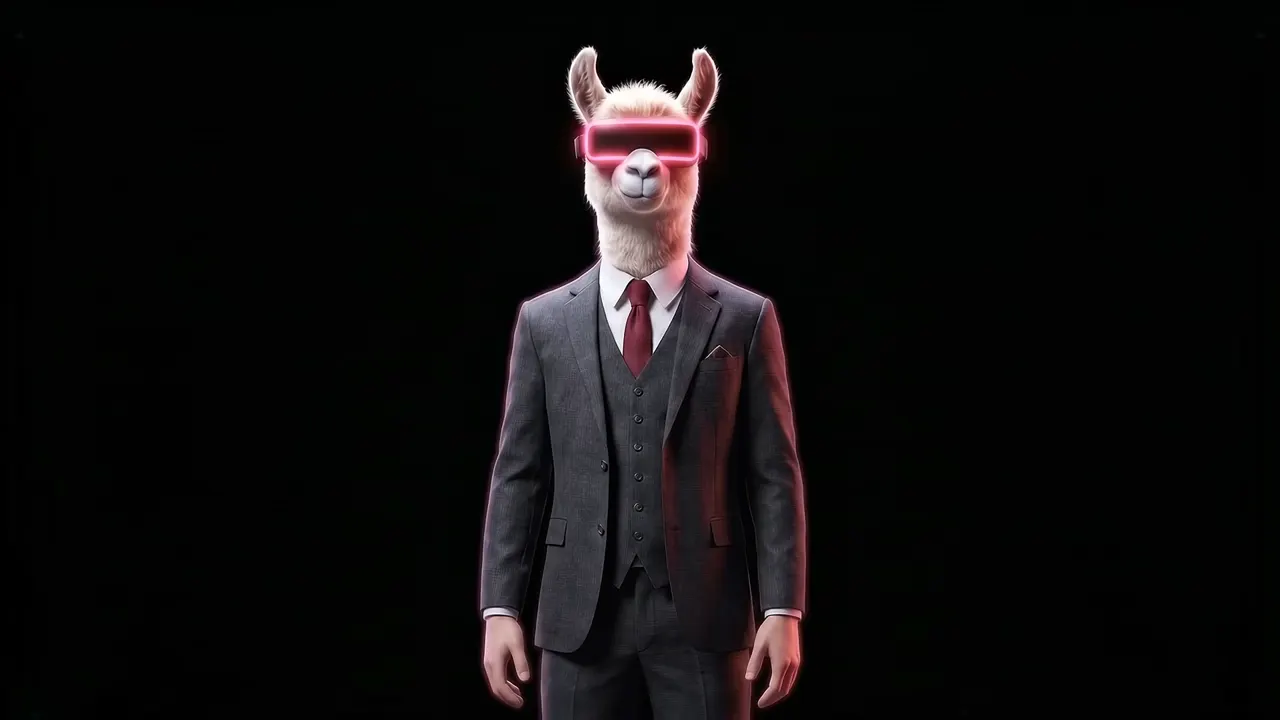
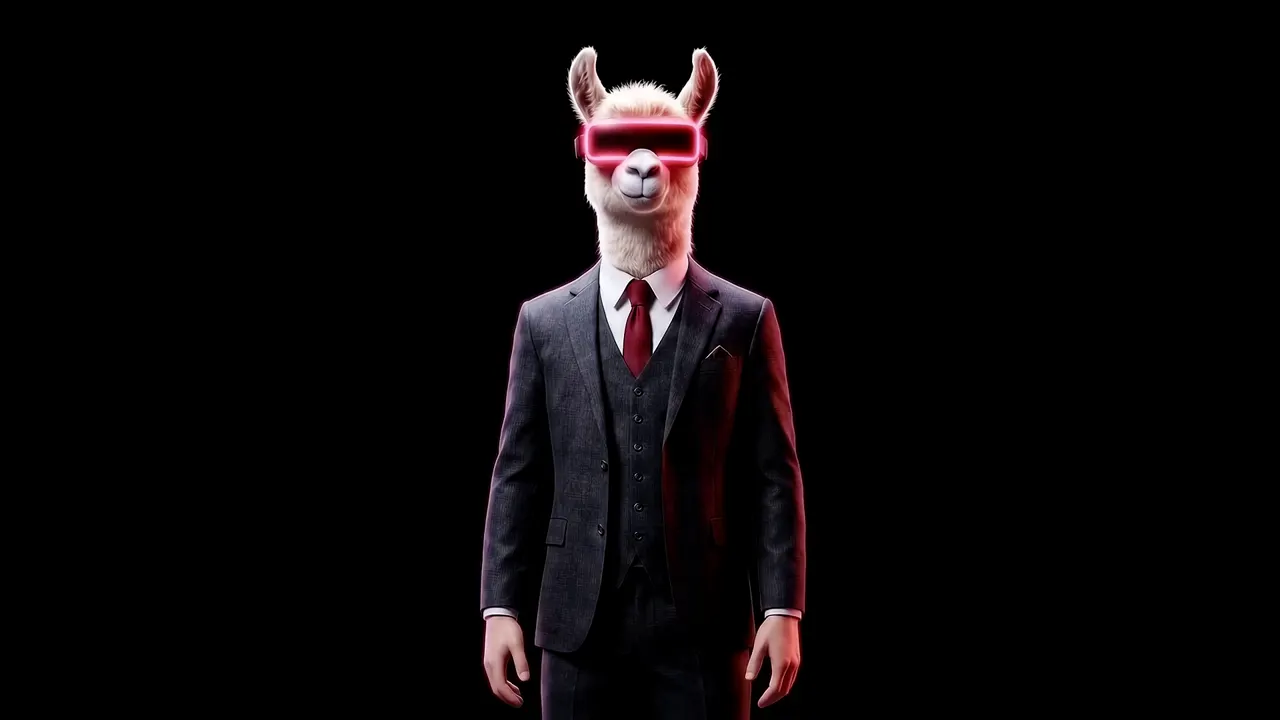
update

Changed region(s): [[0.375, 0.3667, 0.6562, 1.0], [0.4375, 0.0917, 0.5625, 0.3667], [0.4062, 0.3972, 0.4375, 0.4278]]

diff --git a/config.js b/config.js
@@ -71,7 +71,7 @@ window.ITECH_CONFIG = {
   },
 
   /* ── SECTIONS: order + on/off ──────────────────────────────────────────── */
-  welcomeConfig: { src: "media/llama-welcome.mp4?v=2", poster: "media/llama-welcome-poster.webp?v=1" },
+  welcomeConfig: { src: "media/llama-welcome.mp4?v=2", poster: "media/llama-welcome-poster.webp?v=2" },
 
   sections: {
     order: ["hero", "work", "synapse", "builder", "experience", "trust", "services", "why", "websiteTypes", "packages", "welcome", "addons",
